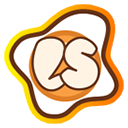
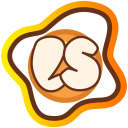
better resizing, del useless file

Changed region(s): [[0.0, 0.0, 1.0, 1.0], [0.5, 0.4688, 0.5312, 0.5]]

diff --git a/server-client/src/stampsGenerator.js b/server-client/src/stampsGenerator.js
@@ -132,12 +132,19 @@ export async function prepareStamps() {
         };
     
         if (file && file !== "") {
+            var input = await sharp(file.file).resize({
+                width: stampSize,
+                height: stampSize,
+                fit: 'contain',
+                background: { r: 255, g: 255, b: 255, alpha: 0 }
+            }).toBuffer();
+
             composites.push({
                 id: file.id,
                 x: x,
                 y: y,
 
-                input: await sharp(file.file).resize(stampSize, stampSize).toBuffer(),
+                input,
                 top: y * stampSize,
                 left: x * stampSize,
             });
